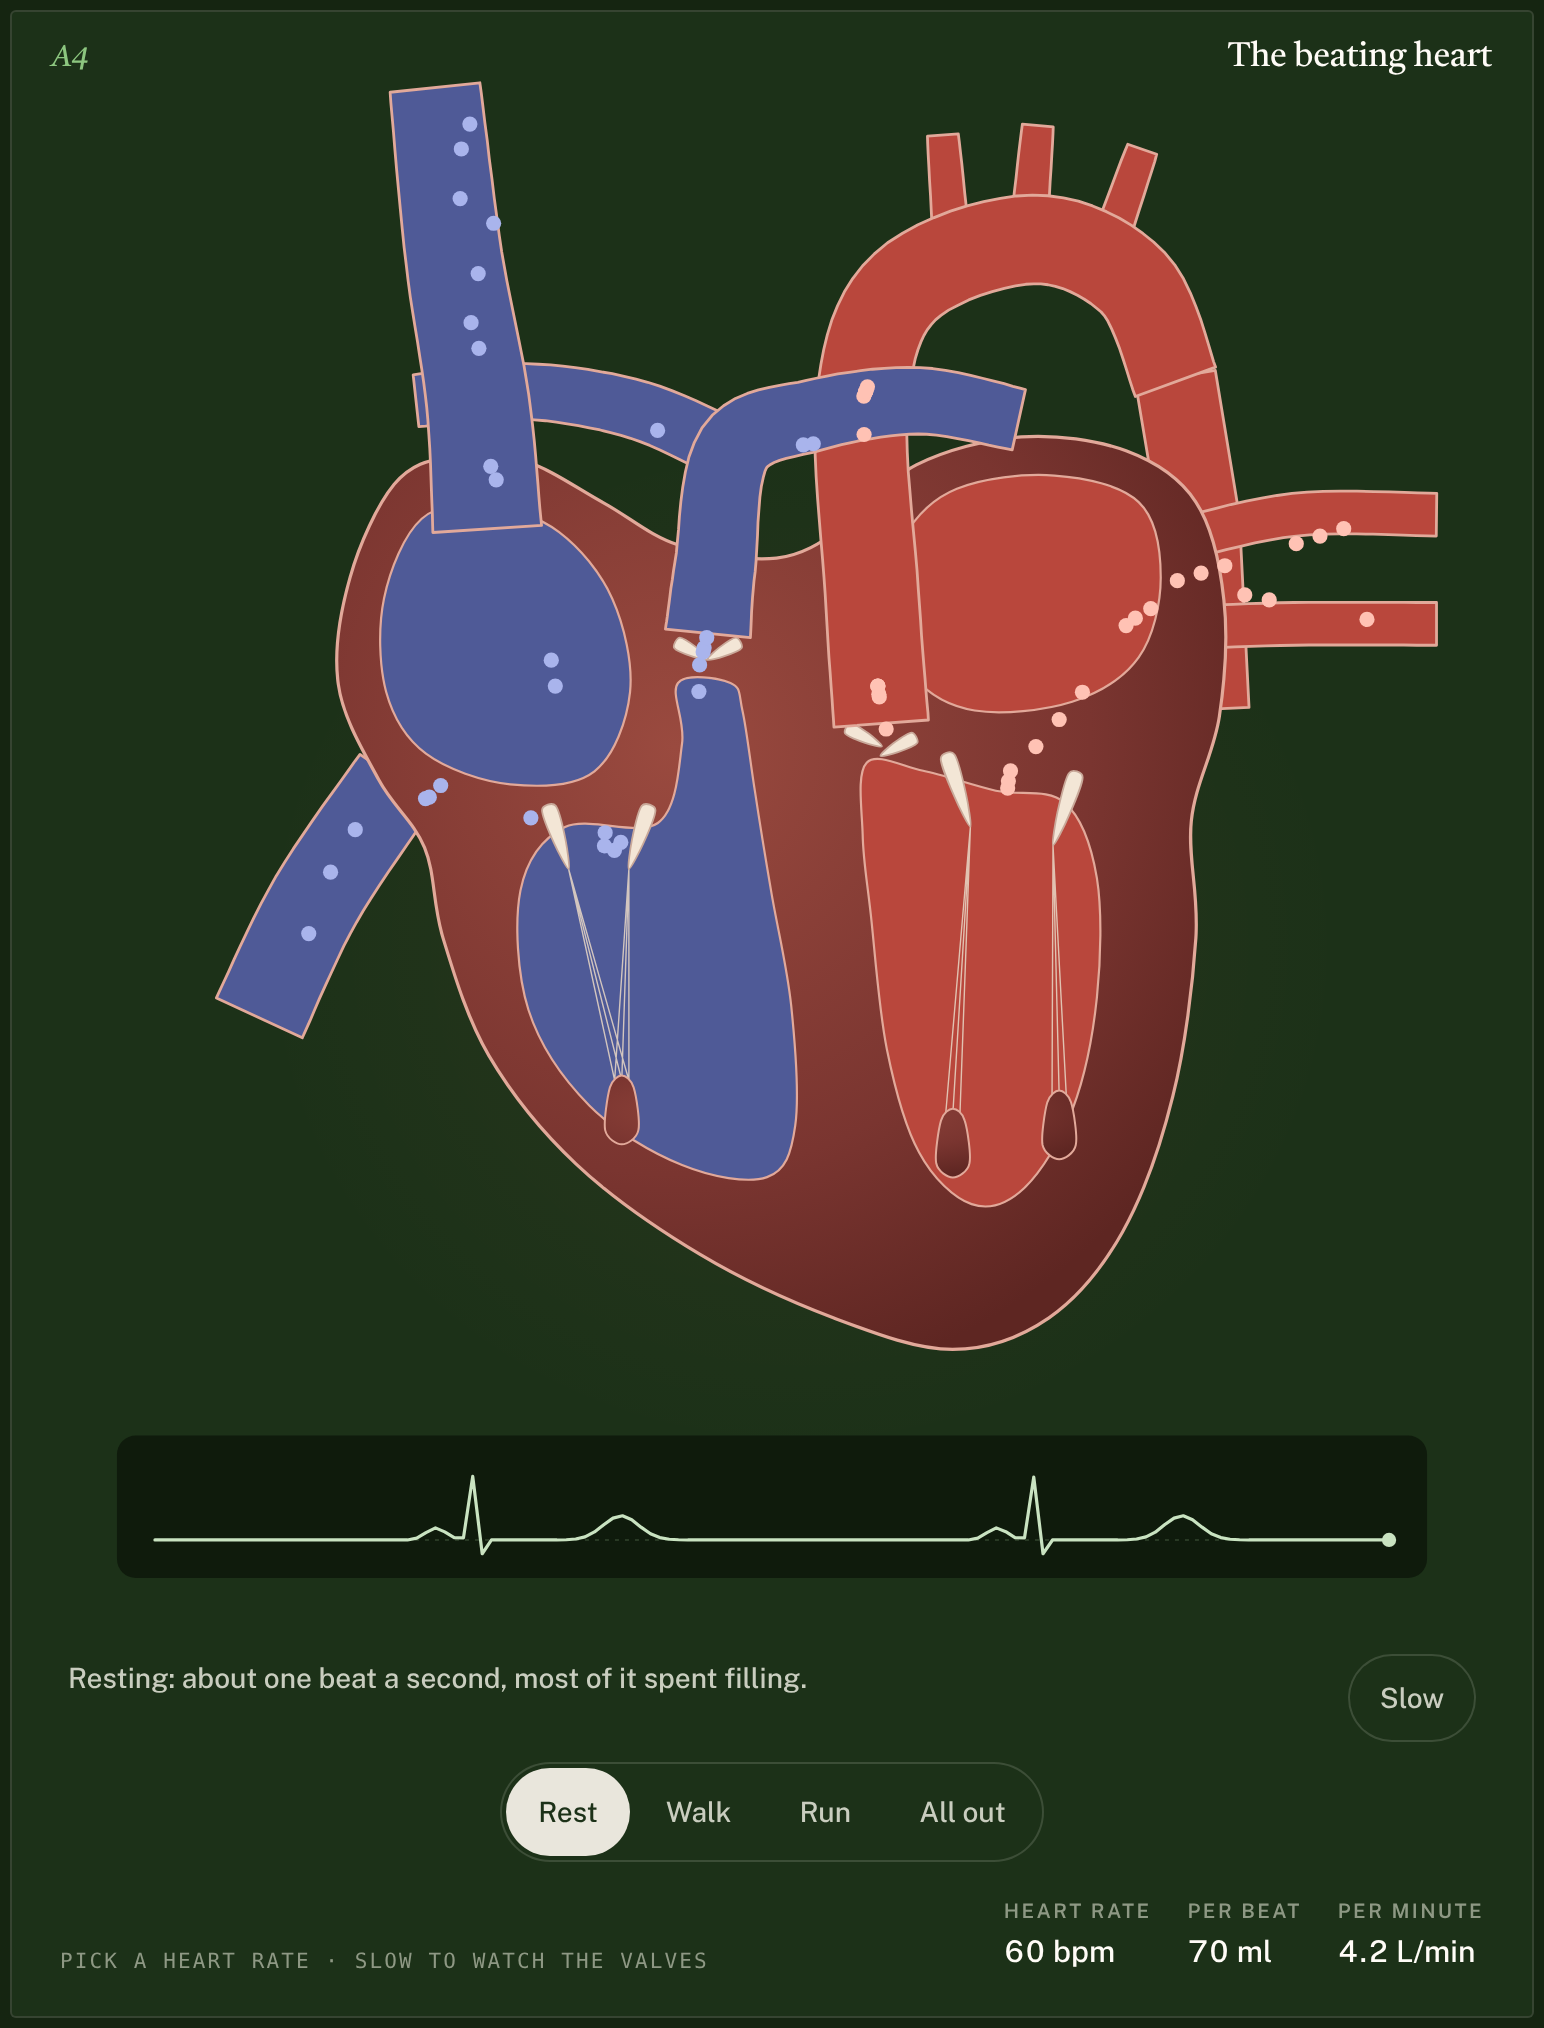
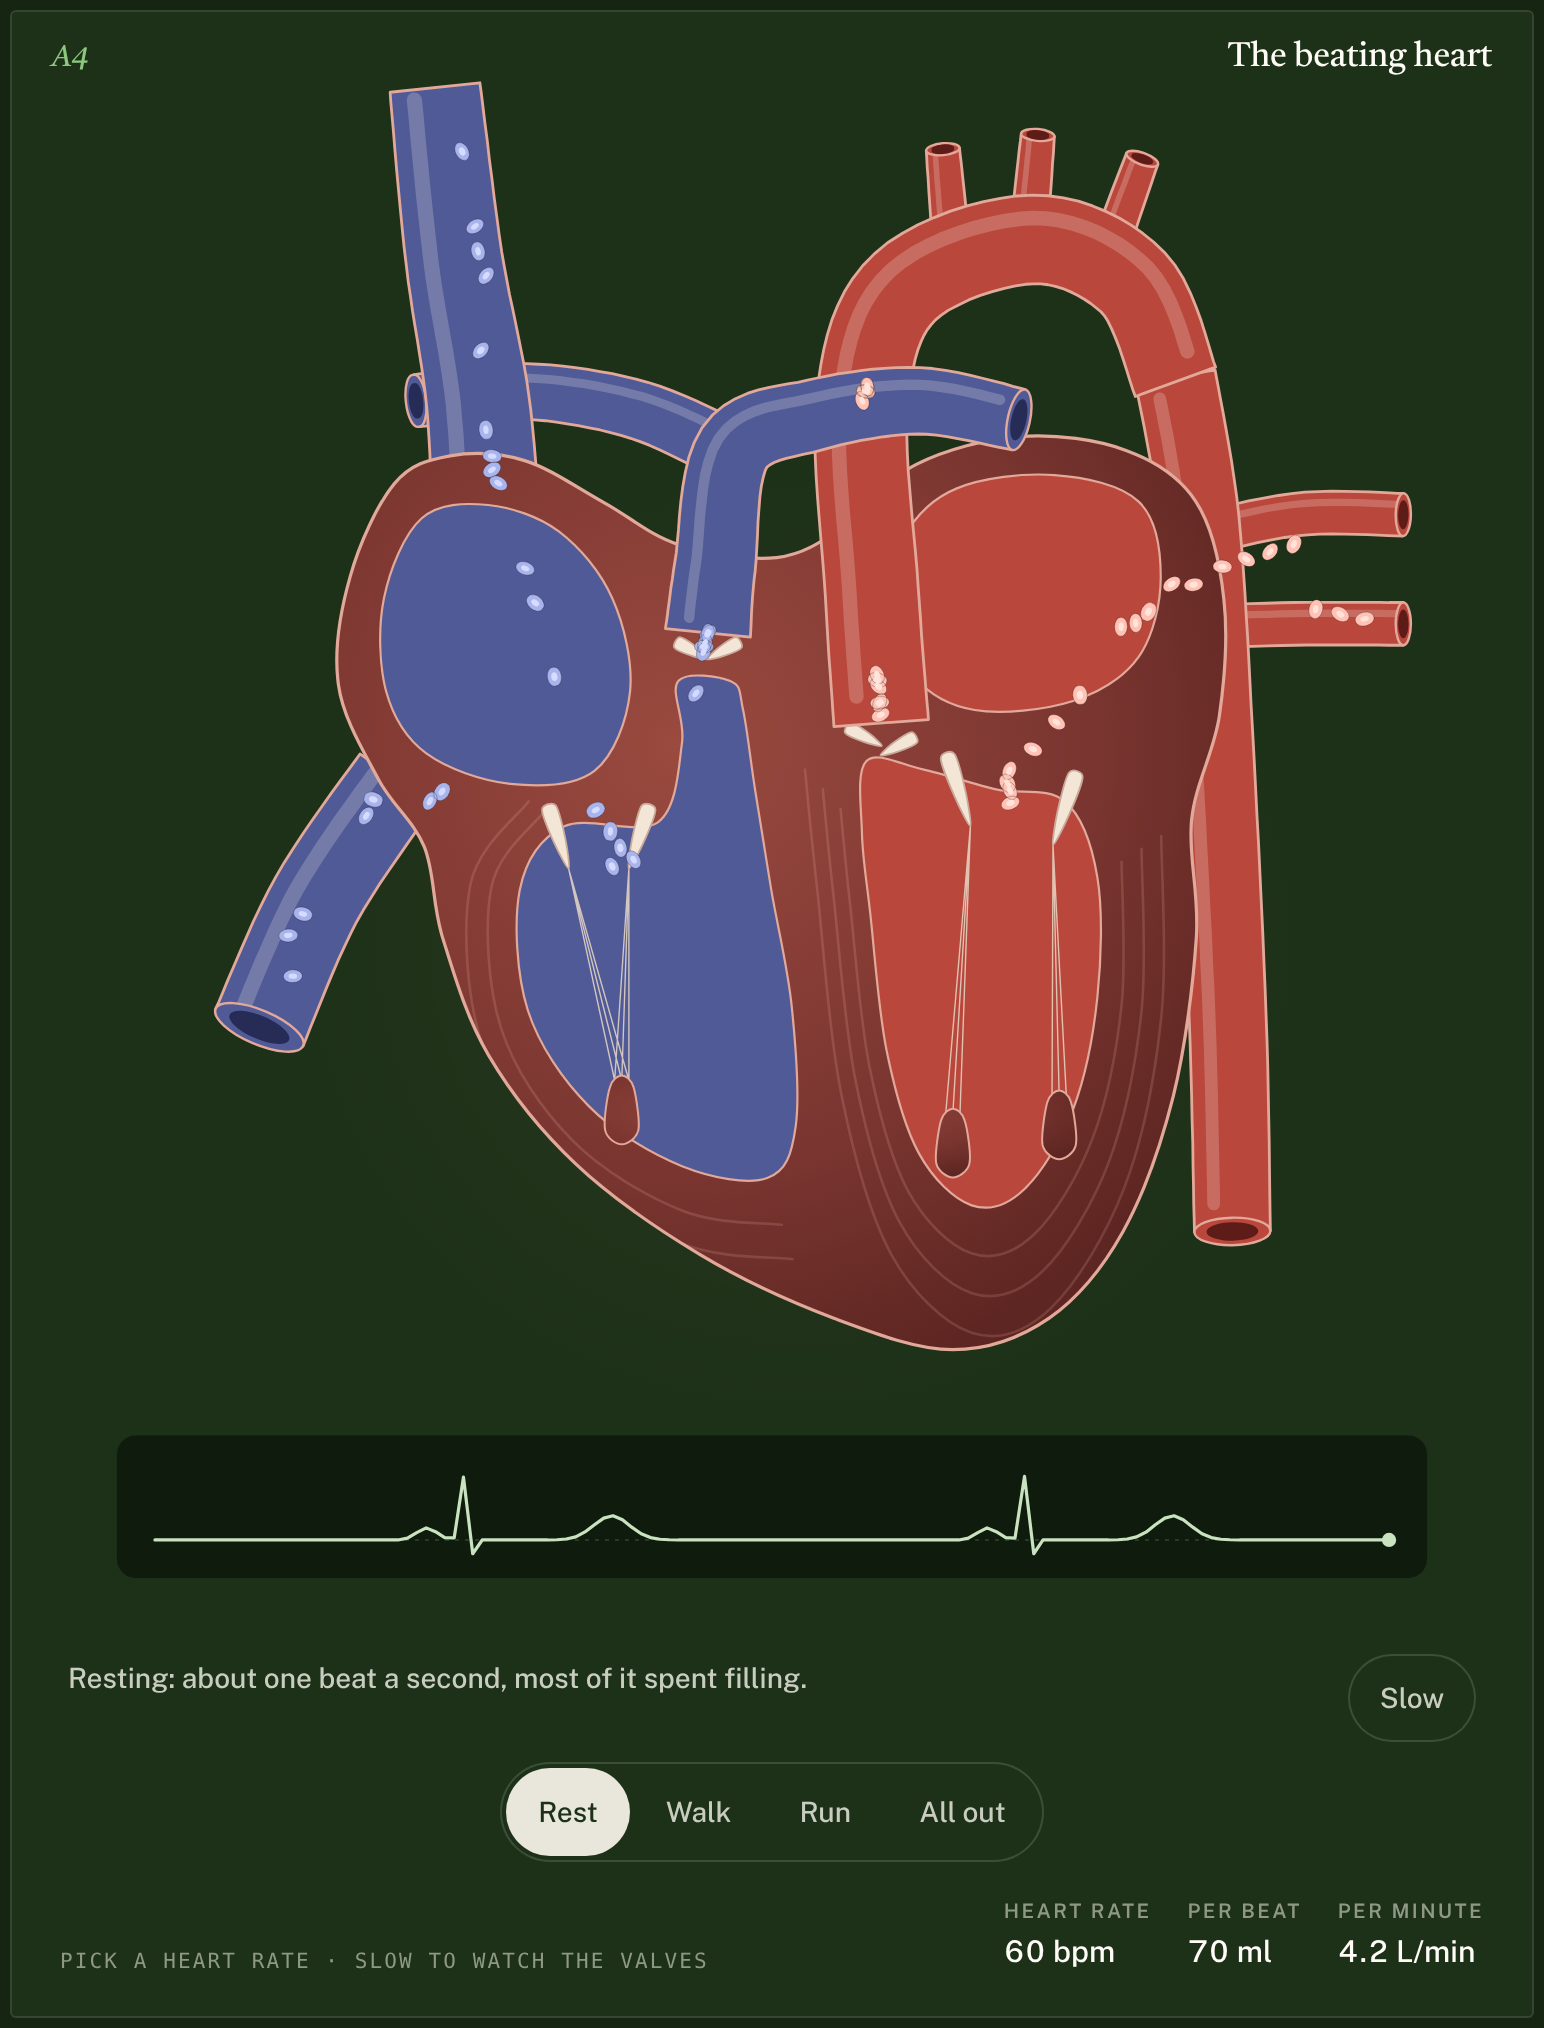
A4 round 2: finish the heart to the A-series standard
Same model and numbers; drawing upgraded:
- vessels get a sheen on the lit side and cut ends showing the lumen
  (IVC, both PAs, arch branches, pulmonary veins, descending aorta),
  replacing the square-cut tube ends
- SVC now passes behind the muscle and opens into the right atrium;
  the descending aorta is drawn live behind the heart
- muscle-fibre rings wrap both ventricles and squeeze with the beat
  (clipped to the moving outline)
- blood cells are tumbling biconcave discs instead of dots

Verified: both themes, 390/360/320 with no sideways scroll, reduced
motion, embed, clean console. NOTES and HANDOFF-LOCAL updated.

Claude-Session: https://claude.ai/code/session_01BGndyyGpXNQbxpF4TgwG4g

diff --git a/figures/a4-heart/live.js b/figures/a4-heart/live.js
@@ -61,8 +61,50 @@ function mount(fig) {
     const pts = [...L, ...R.reverse()];
     return `M${pts.map((p) => `${f1(p[0])} ${f1(p[1])}`).join("L")}Z`;
   }
+  /** A vessel: tube, a sheen on the side facing the light (upper left), and cut ends showing the lumen. */
+  function vessel(name, list, cls) {
+    let h = "";
+    for (const [pts, w0, w1, capA, capB] of list) {
+      const c = curve(pts);
+      const wAt = (i) => w0 + (w1 - w0) * (i / (c.length - 1));
+      const nAt = (i) => {
+        const a = c[Math.max(0, i - 1)];
+        const b = c[Math.min(c.length - 1, i + 1)];
+        const l = Math.hypot(b[0] - a[0], b[1] - a[1]) || 1;
+        return [-(b[1] - a[1]) / l, (b[0] - a[0]) / l];
+      };
+      let side = 0;
+      c.forEach((_, i) => {
+        const n = nAt(i);
+        side += -n[0] - n[1];
+      });
+      side = side >= 0 ? 1 : -1;
+      const i0 = Math.floor(c.length * 0.06);
+      const i1 = Math.ceil(c.length * 0.94);
+      let sh = "";
+      for (let i = i0; i < i1; i++) {
+        const n = nAt(i);
+        const o = side * wAt(i) * 0.24;
+        sh += `${sh ? "L" : "M"}${f1(c[i][0] + n[0] * o)} ${f1(c[i][1] + n[1] * o)}`;
+      }
+      h += `<path class="a4-${cls} a4-vessel" d="${tube(pts, w0, w1)}"/><path class="a4-sheen" d="${sh}" style="stroke-width:${f1(Math.min(w0, w1) * 0.2)}px"/>`;
+      for (const [on, i, w] of [[capA, 0, w0], [capB, c.length - 1, w1]]) {
+        if (!on) continue;
+        const n = nAt(i);
+        const ang = ((Math.atan2(n[1], n[0]) * 180) / Math.PI).toFixed(0);
+        const e = (k) => {
+          const a = (w / 2) * k;
+          const b = a * 0.36;
+          return `M${f1(c[i][0] - n[0] * a)} ${f1(c[i][1] - n[1] * a)}A${f1(a)} ${f1(b)} ${ang} 1 0 ${f1(c[i][0] + n[0] * a)} ${f1(c[i][1] + n[1] * a)}A${f1(a)} ${f1(b)} ${ang} 1 0 ${f1(c[i][0] - n[0] * a)} ${f1(c[i][1] - n[1] * a)}Z`;
+        };
+        h += `<path class="a4-cap a4-cap-${cls}" d="${e(1)}"/><path class="a4-lumen a4-lumen-${cls}" d="${e(0.68)}"/>`;
+      }
+    }
+    q(`[data-v="${name}"]`).innerHTML = h;
+  }
   const centroid = (pts) => pts.reduce((a, p) => [a[0] + p[0] / pts.length, a[1] + p[1] / pts.length], [0, 0]);
   const C = { RA: centroid(G.RA), LA: centroid(G.LA), RV: centroid(G.RV), LV: centroid(G.LV), V: [320, 392] };
+  const FIB = { lv: G.LV.filter((p) => p[1] > G.AVY + 16), rv: G.RV.slice(0, 6) };
 
   // ---------------------------------------------------------------- the deformation field
   let def = { d: 0, sV: 1, sA: 1, sO: 1 };
@@ -132,6 +174,10 @@ function mount(fig) {
   }
   function stepCells(b, dt, hr) {
     const v = 70 * (hr / 60);
+    for (const c of cells) {
+      if (c.a === undefined) (c.a = Math.random() * Math.PI), (c.spin = (Math.random() - 0.5) * 3);
+      c.a += c.spin * dt;
+    }
     spawnR += dt * 6 * (hr / 60);
     spawnL += dt * 6 * (hr / 60);
     while (spawnR > 1) (spawnR -= 1), spawn("R");
@@ -196,14 +242,20 @@ function mount(fig) {
     set('[data-part="la"]', smooth(cav(G.LA, C.LA, sA)));
     set('[data-part="rv"]', smooth(cav(G.RV, C.RV, sV)));
     set('[data-part="lv"]', smooth(cav(G.LV, C.LV, sV)));
-    // vessels: tops fixed, roots ride the valve plane
-    set('[data-part="svc"]', tube([[158, -12], [166, 60], [176, 120], shift([180, 170])], 38, 46));
-    set('[data-part="ivc"]', tube([[84, 380], [108, 330], shift([142, 276])], 40, 38));
-    set('[data-part="aorta"]', tube([shift(G.AORc), shift([342, 196]), [338, 120], [356, 72], [410, 52], [452, 70], [470, 112]], 40, 36));
-    set('[data-part="branches"]', [[[376, 58], [372, 8]], [[408, 50], [412, 4]], [[440, 60], [456, 14]]].map((p) => tube(p, 16, 13)).join(""));
-    set('[data-part="pt"]', tube([shift(G.PULc), shift([276, 186]), [284, 140], [318, 126], [362, 120], [404, 128]], 36, 26));
-    set('[data-part="rpa"]', tube([[284, 142], [244, 124], [196, 116], [150, 120]], 26, 22));
-    set('[data-part="pv"]', tube([[580, 168], [520, 168], shift([466, 176])], 18) + tube([[580, 214], [520, 214], shift([464, 212])], 18));
+    // vessels: tops fixed, roots ride the valve plane; open ends are cut, showing the lumen
+    vessel("svc", [[[[158, -12], [166, 60], [176, 120], shift([180, 176])], 38, 46, false, false]], "ven");
+    vessel("ivc", [[[[84, 384], [108, 330], shift([142, 276])], 40, 38, true, false]], "ven");
+    vessel("desc", [[[[470, 110], [480, 170], [486, 260], [492, 380], [494, 470]], 34, 32, false, true]], "art");
+    vessel("aorta", [[[shift(G.AORc), shift([342, 196]), [338, 120], [356, 72], [410, 52], [452, 70], [470, 112]], 40, 36, false, false]], "art");
+    vessel("branches", [[[[376, 60], [372, 14]], 16, 14, false, true], [[[408, 52], [412, 8]], 16, 14, false, true], [[[440, 62], [456, 18]], 16, 14, false, true]], "art");
+    vessel("pt", [[[shift(G.PULc), shift([276, 186]), [284, 140], [318, 126], [362, 120], [404, 128]], 36, 26, false, true]], "ven");
+    vessel("rpa", [[[[284, 142], [244, 124], [196, 116], [150, 120]], 26, 22, false, true]], "ven");
+    vessel("pv", [[[[566, 168], [520, 168], shift([466, 176])], 18, 18, true, false], [[[566, 214], [520, 214], shift([464, 212])], 18, 18, true, false]], "art");
+    // muscle fibres wrap the ventricles and squeeze with them
+    const fib = (seed, c, k, s) => smooth(seed.map((p) => shift(scaleAbout(p, c, k * s))), false, 1);
+    const sMid = (sV + def.sO) / 2;
+    set('[data-part="fibres"]', [1.12, 1.27, 1.42].map((k) => fib(FIB.lv, C.LV, k, sMid)).join("") + [1.1, 1.22].map((k) => fib(FIB.rv, C.RV, k, sMid)).join(""));
+    set('[data-part="outerClip"]', smooth(outer()));
     // papillary muscles ride the ventricle walls; chordae run from the leaflet tips down to them
     const pap = [cav([G.PAPR], C.RV, 0.82 + 0.18 * sV)[0], cav([G.PAPL[0]], C.LV, 0.82 + 0.18 * sV)[0], cav([G.PAPL[1]], C.LV, 0.82 + 0.18 * sV)[0]];
     set('[data-part="pap"]', pap.map((p, i) => smooth([[p[0] - 7, p[1] + 10], [p[0] - 5, p[1] - 8], [p[0], p[1] - 13], [p[0] + 5, p[1] - 8], [p[0] + 7, p[1] + 10], [p[0], p[1] + 16]], true, 0.9)).join(""));
@@ -212,8 +264,17 @@ function mount(fig) {
     const ch = [[v.tips[0], pap[0]], [v.tips[1], pap[0]], [v.tips[2], pap[1]], [v.tips[3], pap[2]]];
     set('[data-part="chordae"]', ch.map(([a, p]) => [-3, 0, 3].map((o) => `M${f1(a[0])} ${f1(a[1])}L${f1(p[0] + o)} ${f1(p[1] - 11)}`).join("")).join(""));
     // blood cells
-    q('[data-part="cellsR"]').innerHTML = cells.filter((c) => c.side === "R").map((c) => `<circle cx="${f1(c.p[0])}" cy="${f1(c.p[1])}" r="3.2"/>`).join("");
-    q('[data-part="cellsL"]').innerHTML = cells.filter((c) => c.side === "L").map((c) => `<circle cx="${f1(c.p[0])}" cy="${f1(c.p[1])}" r="3.2"/>`).join("");
+    const disc = (c, rx, ry) => {
+      const ux = Math.cos(c.a);
+      const uy = Math.sin(c.a);
+      const ang = ((c.a * 180) / Math.PI).toFixed(0);
+      return `M${f1(c.p[0] - ux * rx)} ${f1(c.p[1] - uy * rx)}A${rx} ${ry} ${ang} 1 0 ${f1(c.p[0] + ux * rx)} ${f1(c.p[1] + uy * rx)}A${rx} ${ry} ${ang} 1 0 ${f1(c.p[0] - ux * rx)} ${f1(c.p[1] - uy * rx)}Z`;
+    };
+    for (const side of ["R", "L"]) {
+      const list = cells.filter((c) => c.side === side);
+      set(`[data-part="cells${side}"]`, list.map((c) => disc(c, 4, 2.7)).join(""));
+      set(`[data-part="pal${side}"]`, list.map((c) => disc(c, 1.8, 1.1)).join(""));
+    }
     // a soft glow as the ventricles squeeze
     q('[data-part="glow"]').setAttribute("opacity", (0.15 + 0.5 * contr).toFixed(2));
   }

diff --git a/figures/a4-heart/figure.css b/figures/a4-heart/figure.css
@@ -5,6 +5,7 @@
   --a4-valve: #f3e6d6; --a4-valve-edge: #c9a99a; --a4-chord: #e9d8c6; --a4-wall: #e2a99a;
   --a4-g0: rgba(255, 151, 118, 0.22); --a4-g1: rgba(255, 151, 118, 0);
   --a4-ecg-bg: #0f1b0c; --a4-ecg: #c9e3c1; --a4-ecg-dim: #33452e;
+  --a4-ven-pal: #d6dcff; --a4-art-pal: #ffe4dc; --a4-sheen: rgba(255, 240, 232, 0.22); --a4-lumen-ven: #262c55; --a4-lumen-art: #5e1c18; --a4-fibre: rgba(255, 200, 186, 0.16);
 }
 .iso.optimal[data-theme="light"] {
   --a4-m0: #e7a594; --a4-m1: #cf7f6e; --a4-m2: #b0604f; --a4-edge: #7a3a30;
@@ -12,6 +13,7 @@
   --a4-valve: #fffaf2; --a4-valve-edge: #8a6a5e; --a4-chord: #8a6a5e; --a4-wall: #7a3a30;
   --a4-g0: rgba(220, 102, 86, 0.18); --a4-g1: rgba(220, 102, 86, 0);
   --a4-ecg-bg: #1d2a1a; --a4-ecg: #d9efd2; --a4-ecg-dim: #3d5436;
+  --a4-ven-pal: #7a84cf; --a4-art-pal: #d4604f; --a4-sheen: rgba(255, 255, 255, 0.4); --a4-lumen-ven: #3a427f; --a4-lumen-art: #7d2219; --a4-fibre: rgba(122, 58, 48, 0.2);
 }
 .a4-svg path, .a4-svg rect, .a4-svg circle { vector-effect: non-scaling-stroke; }
 .a4-m0 { stop-color: var(--a4-m0); } .a4-m1 { stop-color: var(--a4-m1); } .a4-m2 { stop-color: var(--a4-m2); }
@@ -24,8 +26,14 @@
 .a4-valve { fill: var(--a4-valve); stroke: var(--a4-valve-edge); stroke-width: 0.9; }
 .a4-chordae { fill: none; stroke: var(--a4-chord); stroke-width: 0.7; opacity: 0.85; }
 .a4-pap { fill: url(#a4-muscle); stroke: var(--a4-edge); stroke-width: 1; }
-.a4-cells-ven circle { fill: var(--a4-ven-cell); }
-.a4-cells-art circle { fill: var(--a4-art-cell); }
+.a4-cell { stroke: rgba(0, 0, 0, 0.25); stroke-width: 0.5; }
+.a4-cell-ven { fill: var(--a4-ven-cell); } .a4-pal-ven { fill: var(--a4-ven-pal); }
+.a4-cell-art { fill: var(--a4-art-cell); } .a4-pal-art { fill: var(--a4-art-pal); }
+.a4-sheen { fill: none; stroke: var(--a4-sheen); stroke-linecap: round; }
+.a4-cap { stroke: var(--a4-wall); stroke-width: 1.2; }
+.a4-cap-ven { fill: var(--a4-ven); } .a4-cap-art { fill: var(--a4-art); }
+.a4-lumen-ven { fill: var(--a4-lumen-ven); } .a4-lumen-art { fill: var(--a4-lumen-art); }
+.a4-fibre { fill: none; stroke: var(--a4-fibre); stroke-width: 1.3; stroke-linecap: round; }
 .a4-glow { pointer-events: none; }
 .a4-ecg-bg { fill: var(--a4-ecg-bg); }
 .a4-ecg-base { fill: none; stroke: var(--a4-ecg-dim); stroke-width: 0.8; stroke-dasharray: 2 3; }

diff --git a/figures/a4-heart/NOTES.md b/figures/a4-heart/NOTES.md
@@ -35,11 +35,21 @@
 - **The valve plane moving toward the apex** is real long-axis motion, and the reason the atria fill while the ventricles empty. It's drawn as 15 px at full emptying.
 - **Visual choices:** a rose muscle gradient, a soft glow with each squeeze, a Slow button (¼ speed) for watching the valves.
 
+## Round 2 (2026-10-11, Peter: "do the heart after")
+
+This brings the finish up to A2/A5/A6. The model, timing and numbers are unchanged.
+- **Vessels:** every vessel gets a sheen on the side facing the light, and its open ends are cut, showing the lumen (inferior vena cava, both pulmonary arteries, the arch's three branches, the pulmonary veins, the descending aorta). The square-cut ends are gone.
+- **Venae cavae and descending aorta:** the superior vena cava now runs behind the heart muscle and opens into the right atrium, instead of sitting on top of it. The descending aorta is drawn live behind the heart, down to a cut end.
+- **Muscle fibres:** three rings wrap the left ventricle and two the right ventricle's free wall. They squeeze with the beat through the same deformation field, clipped to the moving outline.
+- **Cells:** tumbling biconcave discs with a pale centre, instead of dots.
+- **Kept:** the textbook convention of the pulmonary trunk crossing in front of the ascending aorta (a schematic layout, as in most teaching diagrams).
+
 ## Verification (2026-10-11)
 
 - No console errors.
 - No sideways scroll at 390, 360 or 320, in both themes.
 - Reduced motion shows one still at mid-ejection: outflow valves open, inflow valves shut.
+- Round 2 recaptured: `shots/desktop-{dark,light}.png`, `shots/phone-{390,360,320}-{dark,light}.png`, `shots/reduced-390-*.png`, `shots/embed.png`, all with no sideways scroll and a clean console.
 
 ## Open for Peter
 

diff --git a/HANDOFF-LOCAL.md b/HANDOFF-LOCAL.md
@@ -26,7 +26,7 @@ No npm install: the Anatomy kit is vendored in `.claude/skills/anatomy/`. Then s
 | 5 | VO2max on a bike | **Round 2 done** (Peter: wireless VO2 Master mask, assessor with a tablet; no hose, cart or WebGL; no RER since the mask doesn't measure CO₂) | `figures/05-vo2max/` |
 | 6 | VO2max on the Creator 600 | **Round 1 done**: same mask and assessor; speed ramp at 1 %; audit passed, line ends 0, phone checked | `figures/06-vo2max-treadmill/` |
 | A1 | Gut cell's gate (style test) | **Built**: hand-drawn organic SVG, both themes, phones checked; waiting on Peter's call on the look | `figures/a1-gut-cell/` |
-| A4 | The beating heart | **Built**: four chambers, valves, chordae, great vessels, ECG; rate buttons and Slow | `figures/a4-heart/` |
+| A4 | The beating heart | **Built, round 2**: four chambers, valves, chordae, great vessels with cut ends and sheen, muscle fibres, disc cells, ECG; rate buttons and Slow | `figures/a4-heart/` |
 | A5 | The air sac and the red cell | **Built**: alveolus in its capillary net, cells loading by the model, O₂/CO₂ dots, breathing, transit monitor | `figures/a5-alveolus/` |
 | A2 | The hot-flash switch | **Built**: hypothalamus slice, KNDy cells swell and signal, MnPO tips into a flash; pre/post buttons | `figures/a2-hypothalamus/` |
 | A6 | The red cell's 120 days | **Built**: marrow → 120-day arc → spleen macrophage → transferrin; untreated vs IV iron from Fig 3's model | `figures/a6-red-cell-cycle/` |
